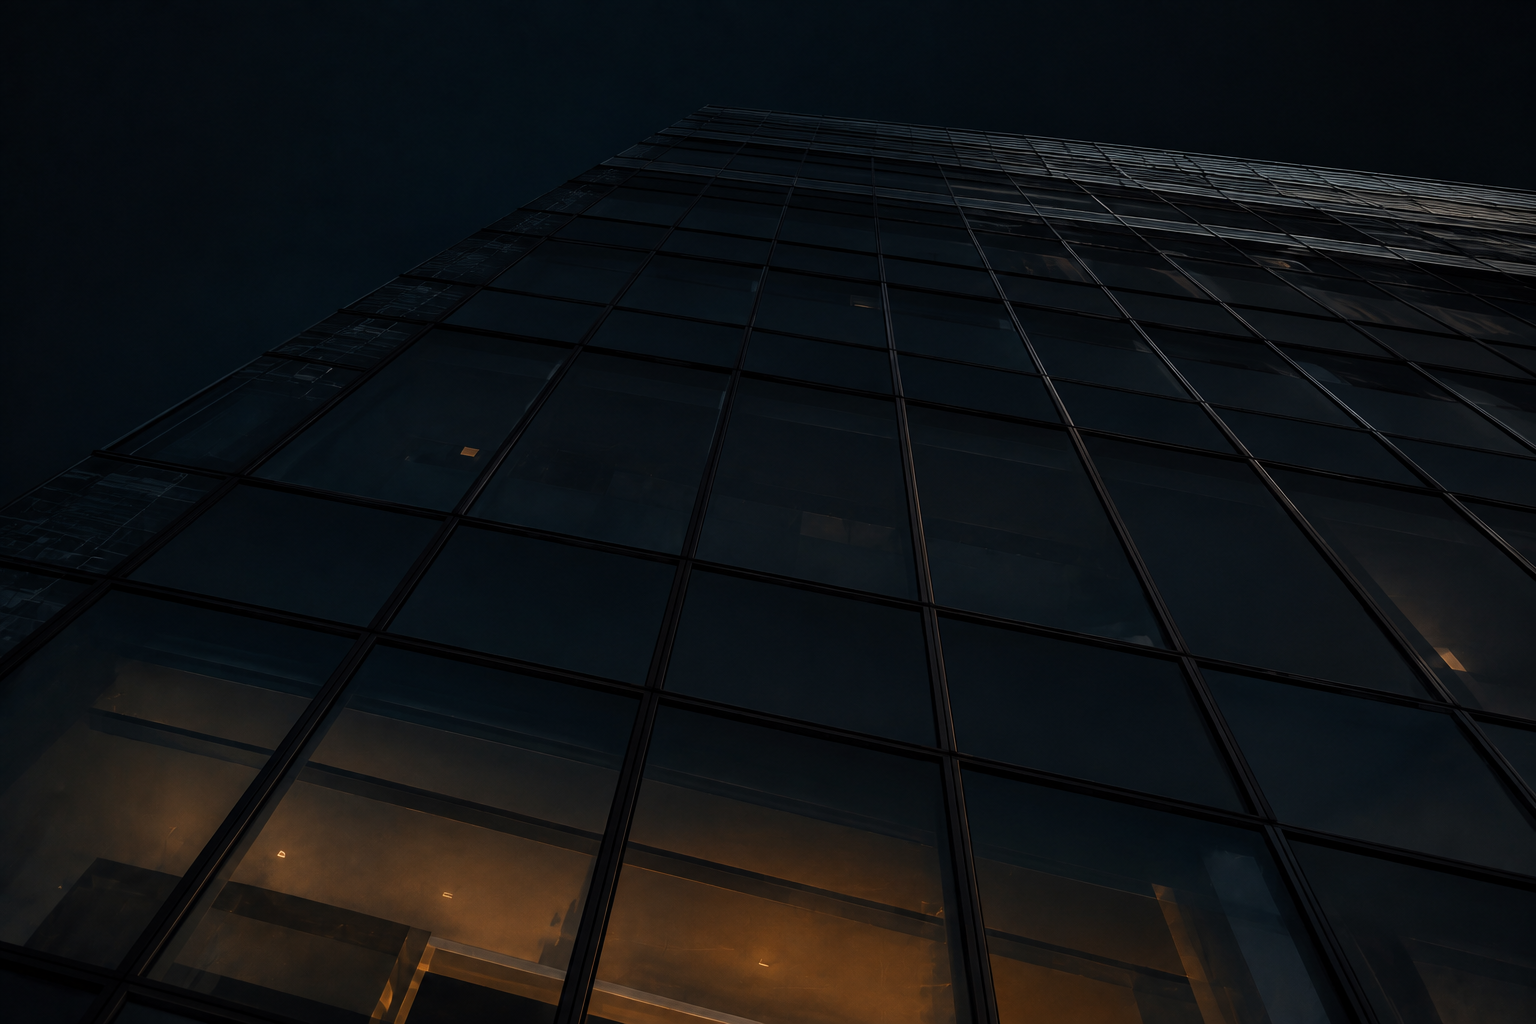
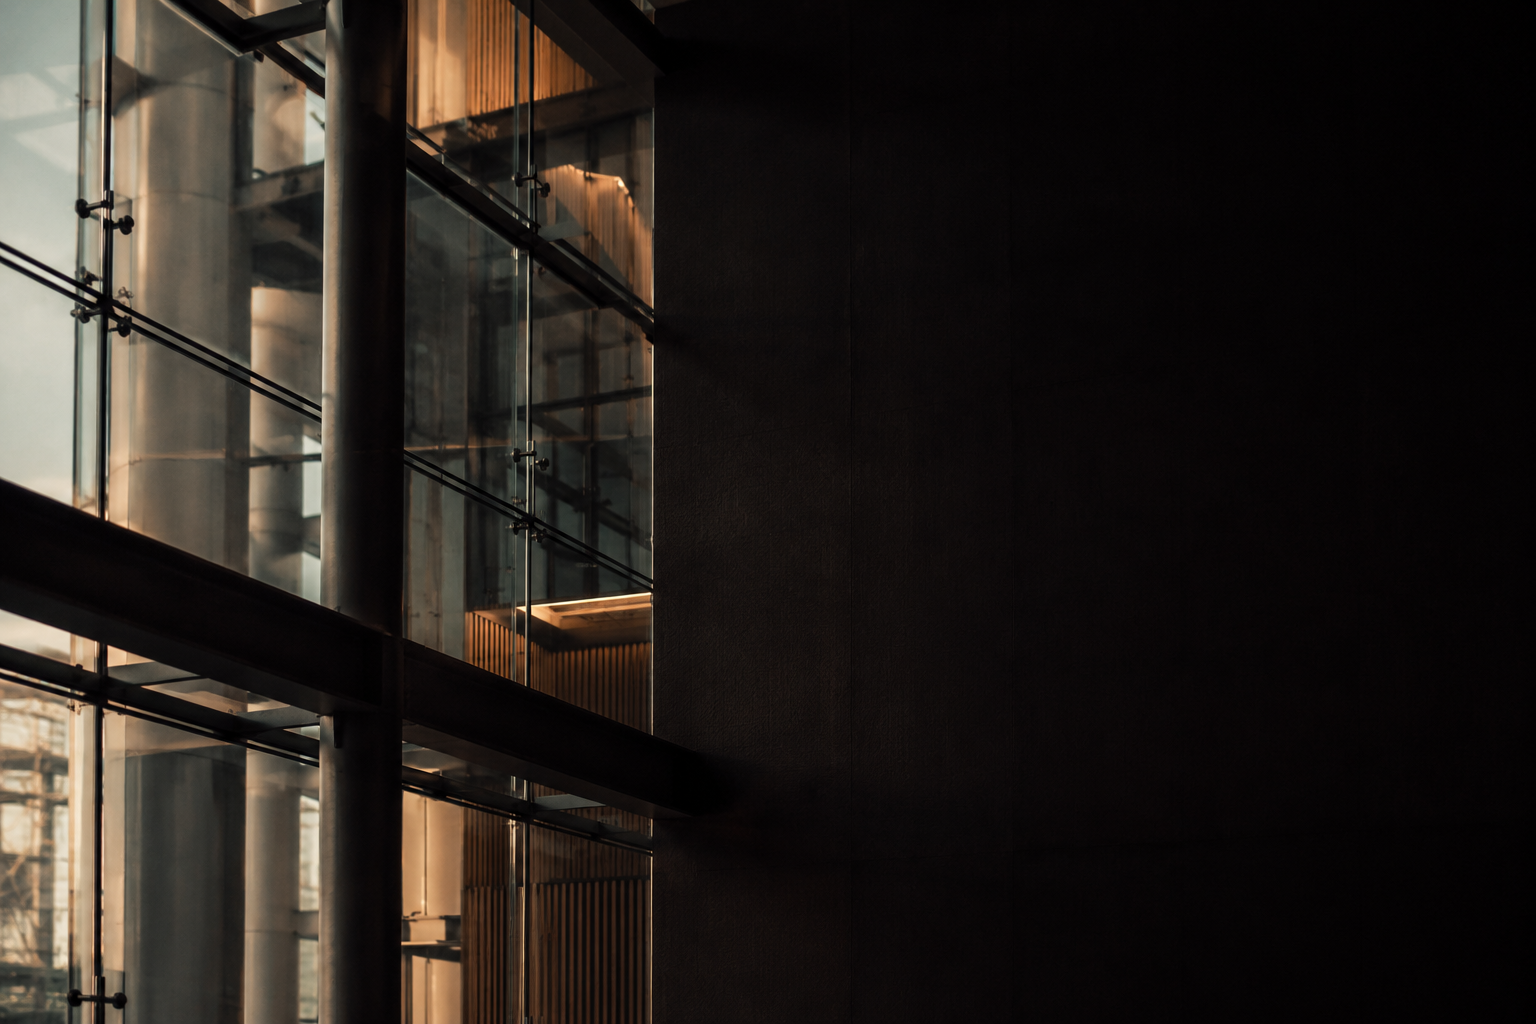
Updated Home Page

diff --git a/src/pages/Home.tsx b/src/pages/Home.tsx
@@ -106,14 +106,14 @@ const ProductRow = ({
   const isRight = align === "right";
   return (
     <div className="container mx-auto px-6 lg:px-12 py-24">
-      <div className={`max-w-2xl ${isRight ? "ml-auto text-right" : "mr-auto text-left"}`}>
-        <p className="text-white/50 uppercase tracking-[0.18em] text-xs font-medium mb-5">
+      <div className={`max-w-2xl backdrop-blur-md bg-white/5 border border-white/10 p-8 sm:p-14 rounded-[2.5rem] hover:shadow-lg transition-all ${isRight ? "ml-auto text-right" : "mr-auto text-left"}`}>
+        <p className="badge-label mb-6 text-white/80 inline-block">
           {eyebrow}
         </p>
-        <h2 className="text-3xl sm:text-4xl lg:text-5xl font-bold text-white mb-6 tracking-tight leading-tight">
+        <h2 className="leading-snug text-white mb-8 text-3xl sm:text-4xl lg:text-5xl font-bold tracking-tight">
           {title}
         </h2>
-        <p className="text-white/75 text-lg sm:text-xl leading-relaxed mb-8 font-light">
+        <p className="text-white/60 text-lg sm:text-xl leading-relaxed font-medium mb-8">
           {body}
         </p>
         <Link
@@ -142,19 +142,19 @@ const Home = () => {
         overlayClass="bg-gradient-to-r from-black/85 via-black/50 to-black/20"
         parallaxAmt={8}
       >
-        <div className="container mx-auto px-6 lg:px-12 py-32">
-          <div className="max-w-3xl text-left">
-            <p className="text-white/50 uppercase tracking-[0.18em] text-xs font-medium mb-6 animate-fade-in-up">
+        <div className="container mx-auto px-6 lg:px-12 py-32 relative z-10">
+          <div className="max-w-3xl text-left backdrop-blur-md bg-white/5 border border-white/10 p-8 sm:p-14 rounded-[2.5rem] animate-fade-in-up">
+            <p className="badge-label mb-6 text-white/80">
               J Agents Labs
             </p>
             <h1
-              className="text-5xl sm:text-6xl lg:text-8xl font-bold tracking-tight text-white leading-[1.05] mb-8 animate-fade-in-up"
+              className="text-5xl sm:text-6xl lg:text-8xl font-bold tracking-tight text-white leading-[1.05] mb-8"
               style={{ animationDelay: "0.05s" }}
             >
               Built alongside&nbsp;you.
             </h1>
             <p
-              className="text-xl sm:text-2xl text-white/70 leading-relaxed max-w-2xl font-light animate-fade-in-up"
+              className="text-xl sm:text-2xl text-white/60 leading-relaxed max-w-2xl font-medium"
               style={{ animationDelay: "0.15s" }}
             >
               We understand how your business runs before we touch a single line
@@ -172,17 +172,19 @@ const Home = () => {
         overlayClass="bg-gradient-to-b from-black/75 via-black/55 to-black/75"
         parallaxAmt={10}
       >
-        <div className="container mx-auto px-6 lg:px-12 py-24 flex items-center justify-center">
-          <blockquote
-            className="max-w-4xl mx-auto text-center text-2xl sm:text-3xl lg:text-5xl leading-relaxed text-white/95 font-light tracking-wide"
-            style={{
-              fontFamily: "Georgia, Cambria, 'Times New Roman', serif",
-              textShadow: "0 2px 20px rgba(0,0,0,0.9)",
-            }}
-          >
-            "The right software isn't the one with the most features.{" "}
-            <em>It's the one built around how you already work.</em>"
-          </blockquote>
+        <div className="container mx-auto px-6 lg:px-12 py-24 flex items-center justify-center relative z-10">
+          <div className="max-w-4xl mx-auto text-center backdrop-blur-md bg-white/5 border border-white/10 p-8 sm:p-14 rounded-[2.5rem] animate-fade-in-up hover:shadow-lg transition-all">
+            <blockquote
+              className="text-2xl sm:text-3xl lg:text-5xl leading-relaxed text-white/95 font-light tracking-wide"
+              style={{
+                fontFamily: "Georgia, Cambria, 'Times New Roman', serif",
+                textShadow: "0 2px 20px rgba(0,0,0,0.9)",
+              }}
+            >
+              "The right software isn't the one with the most features.{" "}
+              <em>It's the one built around how you already work.</em>"
+            </blockquote>
+          </div>
         </div>
       </ParallaxSection>
 
@@ -266,15 +268,15 @@ const Home = () => {
         overlayClass="bg-gradient-to-b from-black/60 via-black/30 to-black/85"
         parallaxAmt={10}
       >
-        <div className="container mx-auto px-6 lg:px-12 py-28 flex items-end">
-          <div className="max-w-2xl">
-            <p className="text-white/50 uppercase tracking-[0.18em] text-xs font-medium mb-4">
+        <div className="container mx-auto px-6 lg:px-12 py-28 flex items-end relative z-10">
+          <div className="max-w-2xl text-left backdrop-blur-md bg-white/5 border border-white/10 p-8 sm:p-14 rounded-[2.5rem]">
+            <p className="badge-label mb-6 text-white/80 inline-block">
               Our approach
             </p>
-            <h2 className="text-4xl sm:text-5xl lg:text-6xl font-bold text-white mb-6 tracking-tight leading-tight">
+            <h2 className="leading-snug text-white mb-8 text-4xl sm:text-5xl lg:text-6xl font-bold tracking-tight">
               We diagnose before we build.
             </h2>
-            <p className="text-white/80 text-lg sm:text-xl leading-relaxed mb-8 font-light">
+            <p className="text-white/60 text-lg sm:text-xl leading-relaxed font-medium mb-8">
               Before we recommend a tool, we look at where your process actually
               breaks. That's the difference between software you adopt and
               software you fight.
@@ -298,15 +300,15 @@ const Home = () => {
         overlayClass="bg-gradient-to-b from-black/60 via-black/30 to-black/85"
         parallaxAmt={10}
       >
-        <div className="container mx-auto px-6 lg:px-12 py-28 flex items-end justify-end">
-          <div className="max-w-2xl text-right">
-            <p className="text-white/50 uppercase tracking-[0.18em] text-xs font-medium mb-4">
+        <div className="container mx-auto px-6 lg:px-12 py-28 flex items-end justify-end relative z-10">
+          <div className="max-w-2xl text-right backdrop-blur-md bg-white/5 border border-white/10 p-8 sm:p-14 rounded-[2.5rem]">
+            <p className="badge-label mb-6 text-white/80 inline-block">
               Who we are
             </p>
-            <h2 className="text-4xl sm:text-5xl lg:text-6xl font-bold text-white mb-6 tracking-tight leading-tight">
+            <h2 className="leading-snug text-white mb-8 text-4xl sm:text-5xl lg:text-6xl font-bold tracking-tight">
               Built by people who've run the problem.
             </h2>
-            <p className="text-white/80 text-lg sm:text-xl leading-relaxed mb-8 font-light">
+            <p className="text-white/60 text-lg sm:text-xl leading-relaxed font-medium mb-8">
               J Agents Labs closes the gap between a good idea and software that
               holds up in production. Meet the studio.
             </p>
@@ -329,24 +331,26 @@ const Home = () => {
         overlayClass="bg-gradient-to-b from-black/65 via-black/40 to-black/75"
         parallaxAmt={8}
       >
-        <div className="container mx-auto px-6 lg:px-12 py-28 flex flex-col items-center justify-center text-center">
-          <p className="text-white/50 uppercase tracking-[0.18em] text-xs font-medium mb-6">
-            Let's talk
-          </p>
-          <h2 className="text-4xl sm:text-5xl lg:text-7xl font-bold text-white mb-6 tracking-tight leading-tight max-w-4xl">
-            Partner with people who understand your business first.
-          </h2>
-          <p className="text-xl sm:text-2xl text-white/75 font-light mb-12 max-w-2xl leading-relaxed">
-            Tell us what's actually happening in your business. We'll tell you
-            honestly whether we're the right people to fix it.
-          </p>
-          <Button
-            asChild
-            size="lg"
-            className="h-14 px-10 bg-white text-black hover:bg-white/90 font-semibold text-base rounded-none transition-all duration-300 hover:scale-[1.02] hover:shadow-2xl tracking-wide"
-          >
-            <Link to="/contact">Get started</Link>
-          </Button>
+        <div className="container mx-auto px-6 lg:px-12 py-28 flex flex-col items-center justify-center text-center relative z-10">
+          <div className="max-w-3xl mx-auto text-center backdrop-blur-md bg-white/5 border border-white/10 p-8 sm:p-14 rounded-[2.5rem] animate-fade-in-up hover:scale-[1.02] transition-all hover:shadow-lg flex flex-col items-center">
+            <p className="badge-label mb-6 text-white/80">
+              Let's talk
+            </p>
+            <h2 className="leading-snug text-white mb-8 text-4xl sm:text-5xl lg:text-7xl font-bold tracking-tight">
+              Partner with people who understand your business first.
+            </h2>
+            <p className="text-white/60 text-lg sm:text-xl leading-relaxed font-medium mb-12 max-w-2xl">
+              Tell us what's actually happening in your business. We'll tell you
+              honestly whether we're the right people to fix it.
+            </p>
+            <Button
+              asChild
+              size="lg"
+              className="btn-refined h-14 px-6 sm:px-10 bg-white text-black hover:bg-white/90 shadow-[0_15px_30px_-5px_rgba(255,255,255,0.2)] transition-all hover:scale-[1.02]"
+            >
+              <Link to="/contact">Get started<ArrowRight className="ml-2 h-5 w-5 shrink-0" /></Link>
+            </Button>
+          </div>
         </div>
       </ParallaxSection>
 

diff --git a/src/components/layout/Header.tsx b/src/components/layout/Header.tsx
@@ -12,9 +12,26 @@ const Header = () => {
   const [hidden, setHidden] = useState(false);
   const lastScrollY = useRef(0);
   const dropdownRef = useRef<HTMLDivElement>(null);
+  const timeoutRef = useRef<NodeJS.Timeout | null>(null);
 
   const isActive = (path: string) => location.pathname === path;
   const isWhatWeBuildActive = location.pathname === "/eschure" || location.pathname === "/digital-office" || location.pathname === "/drish";
+
+  const handleMouseEnter = () => {
+    if (timeoutRef.current) {
+      clearTimeout(timeoutRef.current);
+      timeoutRef.current = null;
+    }
+    if (!hidden) {
+      setWhatWeBuildOpen(true);
+    }
+  };
+
+  const handleMouseLeave = () => {
+    timeoutRef.current = setTimeout(() => {
+      setWhatWeBuildOpen(false);
+    }, 150);
+  };
 
   useEffect(() => {
     const handleClickOutside = (e: MouseEvent) => {
@@ -23,7 +40,10 @@ const Header = () => {
       }
     };
     document.addEventListener("mousedown", handleClickOutside);
-    return () => document.removeEventListener("mousedown", handleClickOutside);
+    return () => {
+      document.removeEventListener("mousedown", handleClickOutside);
+      if (timeoutRef.current) clearTimeout(timeoutRef.current);
+    };
   }, []);
 
   useEffect(() => {
@@ -91,18 +111,30 @@ const Header = () => {
             </Link>
 
             {/* What We Build Dropdown */}
-            <div className="relative" ref={dropdownRef}>
+            <div 
+              className="relative" 
+              ref={dropdownRef}
+              onMouseEnter={handleMouseEnter}
+              onMouseLeave={handleMouseLeave}
+            >
               <button
                 onClick={() => setWhatWeBuildOpen(!whatWeBuildOpen)}
+                onFocus={handleMouseEnter}
+                onBlur={handleMouseLeave}
                 className={`text-[13px] font-medium tracking-wide transition-all flex items-center gap-1 ${
                   isWhatWeBuildActive ? "text-white" : "text-muted-foreground hover:text-white"
                 }`}
+                aria-expanded={whatWeBuildOpen}
               >
                 What We Build
                 <ChevronDown className={`h-3 w-3 transition-transform duration-300 ${whatWeBuildOpen ? "rotate-180" : ""}`} />
               </button>
-              {whatWeBuildOpen && (
-                <div className="absolute top-full left-0 mt-3 w-52 bg-[#0a0a0a] border border-white/5 rounded-xl shadow-2xl py-2 z-50 overflow-hidden">
+              
+              <div 
+                className={`absolute top-full left-0 mt-3 w-52 bg-[#0a0a0a] border border-white/5 rounded-xl shadow-2xl py-2 z-50 overflow-hidden transition-all duration-300 origin-top ${
+                  whatWeBuildOpen ? "opacity-100 translate-y-0 pointer-events-auto" : "opacity-0 -translate-y-2 pointer-events-none"
+                }`}
+              >
                   <Link
                     to="/eschure"
                     onClick={() => setWhatWeBuildOpen(false)}
@@ -133,8 +165,7 @@ const Header = () => {
                     <span className="text-[13px] font-bold text-white/90">Drish</span>
                     <span className="text-[11px] text-muted-foreground/50 mt-0.5">Content Agent</span>
                   </Link>
-                </div>
-              )}
+              </div>
             </div>
 
             <Link
